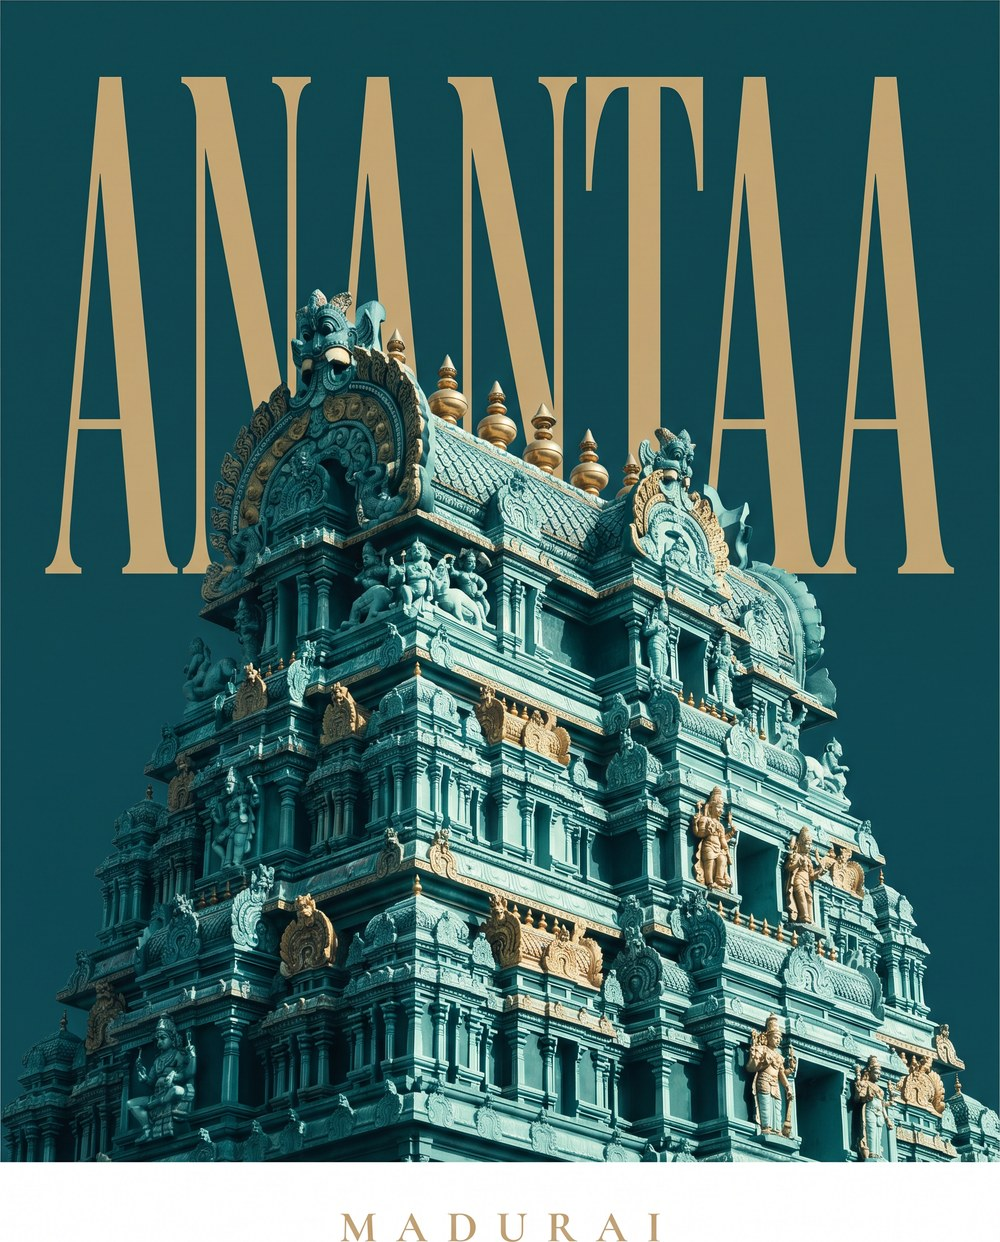
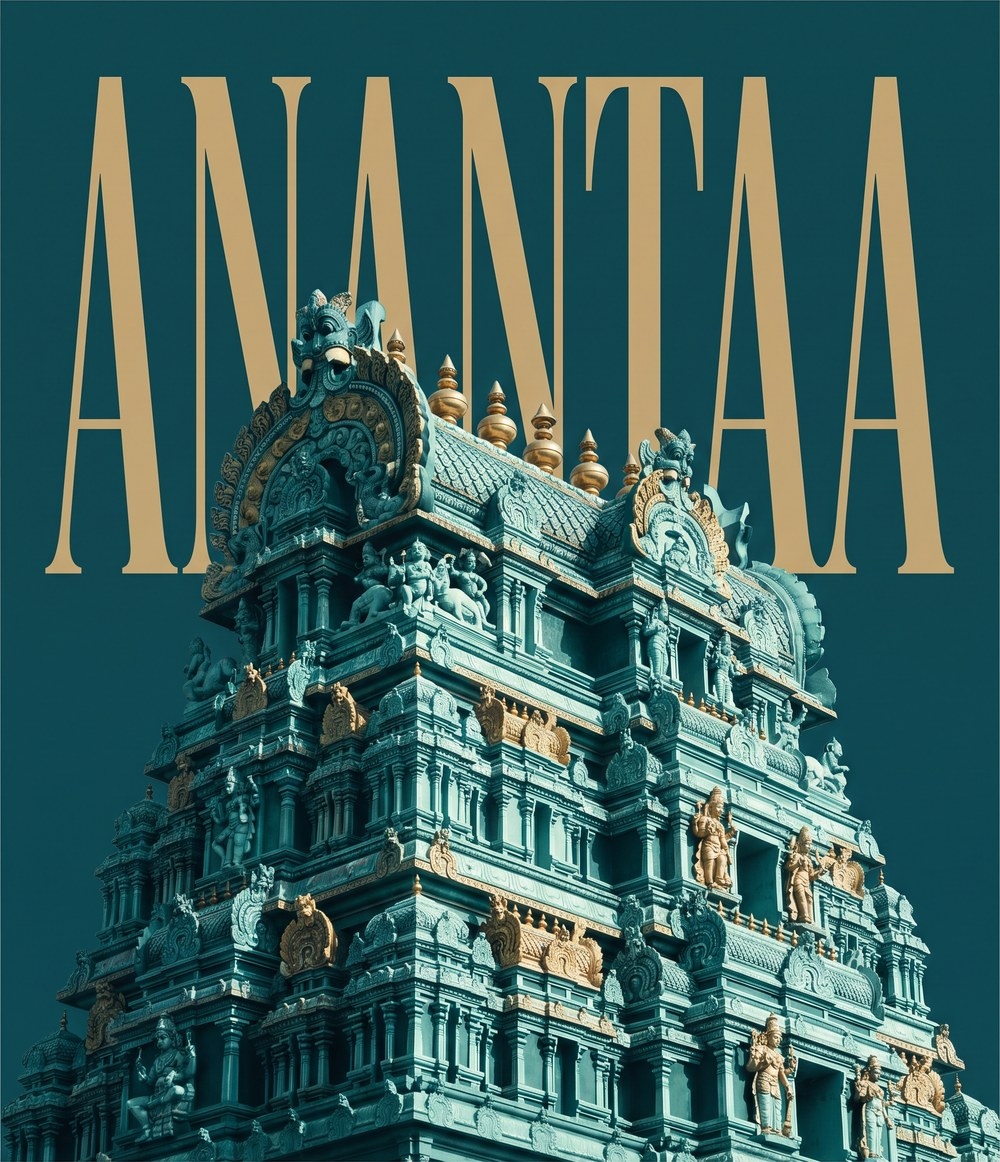
projects: the poster alone as a framed print — MADURAI and the button set into the mount; details removed

diff --git a/mrc.css b/mrc.css
@@ -1009,21 +1009,13 @@ html.modal-open { overflow: hidden; }
 .south-art:active { cursor: grabbing; }
 .south-art img { position: absolute; top: -6%; right: -6%; height: 112%; width: auto; max-width: none; -webkit-user-drag: none; pointer-events: none; }   /* a little larger than the box so the tilt never shows an edge */
 @keyframes artIn { from { opacity: 0; transform: translateX(40px) scale(1.04); } to { opacity: 1; transform: none; } }
-/* the Madurai card: a framed print of the project poster inside a white box, its button under the poster's MADURAI, details beside */
-.city-print { display: grid; grid-template-columns: minmax(0, .8fr) minmax(0, 1.2fr); gap: clamp(2rem, 4vw, 4rem); align-items: center; margin-top: 2.6rem;
-  padding: clamp(1.6rem, 3vw, 2.8rem); background: #fff; border: 1px solid var(--border); border-radius: var(--r); box-shadow: var(--shadow-md); }
-.print { margin: 0; display: flex; flex-direction: column; align-items: center; gap: 1.2rem; padding: clamp(.8rem, 1.5vw, 1.4rem) clamp(.8rem, 1.5vw, 1.4rem) 0; }
-.print > a:first-child { display: block; width: 100%; }
-.print img { display: block; width: 100%; height: auto; box-shadow: 0 18px 44px rgba(18,71,76,.18); transition: transform .5s var(--ease), box-shadow .5s; }
-.print > a:first-child:hover img { transform: translateY(-4px); box-shadow: 0 26px 54px rgba(18,71,76,.24); }
-.print-copy { color: var(--text-body); }
-.print-copy .st { font-size: .68rem; letter-spacing: .16em; text-transform: uppercase; color: var(--gold); font-weight: 600; }
-.print-copy h3 { color: var(--text); margin-top: .4rem; font-size: clamp(1.8rem, 2.6vw, 2.3rem); }
-.print-copy .meta { color: var(--text-muted, #6b7370); margin-top: .3rem; }
-.print-copy p { margin-top: 1rem; font-size: .98rem; line-height: 1.65; }
-.print-copy .lm { margin-top: 1.5rem; border-top: 1px solid var(--border); }
-.print-copy .lm li { border-bottom: 1px solid var(--border); }
-.print-copy small { display: block; margin-top: .8rem; font-size: .74rem; color: #8a8d82; }
+/* the Madurai card: the project poster as a framed print — white mount, MADURAI and the button set into the mount beneath it */
+.city-print { width: min(100%, 560px); margin: 2.6rem auto 0; padding: clamp(1.1rem, 2.2vw, 1.8rem); background: #fff; border: 1px solid var(--border); border-radius: var(--r); box-shadow: var(--shadow-md); }
+.city-print > a { display: block; }
+.city-print img { display: block; width: 100%; height: auto; transition: transform .5s var(--ease); }
+.city-print > a:hover img { transform: scale(1.01); }
+.city-print figcaption { display: flex; align-items: center; justify-content: space-between; gap: 1rem; padding: 1.1rem .4rem .2rem; }
+.city-print .place { font-family: var(--font-d); font-weight: 600; font-size: 1.05rem; letter-spacing: .34em; text-transform: uppercase; color: var(--gold); padding-left: .34em; }
 .lm { list-style: none; margin: 0; padding: 0; }
 .lm li { display: flex; justify-content: space-between; gap: 1rem; padding: .65rem 0; font-size: .92rem; }
 .lm li b { color: var(--gold); font-weight: 600; white-space: nowrap; }
@@ -1031,6 +1023,6 @@ html.modal-open { overflow: hidden; }
   .pagehead.with-art { min-height: 0; display: block; padding-top: 0; }
   .pagehead.with-art .head-copy { max-width: none; }
   .south-art { position: relative; width: 100%; height: 72vw; margin-bottom: 1.4rem; overflow: hidden; -webkit-mask-image: linear-gradient(to top, transparent 0, #000 16%); mask-image: linear-gradient(to top, transparent 0, #000 16%); }
-  .city-print { grid-template-columns: 1fr; gap: 1.6rem; padding: 1.2rem; }
-  .print { padding: 0; }
+  .city-print figcaption { flex-direction: column; align-items: stretch; text-align: center; }
+  .city-print figcaption .btn { justify-content: center; }
 }

diff --git a/locations.html b/locations.html
@@ -12,7 +12,7 @@
 <link rel="preconnect" href="https://fonts.googleapis.com">
 <link rel="preconnect" href="https://fonts.gstatic.com" crossorigin>
 <link rel="stylesheet" href="https://fonts.googleapis.com/css2?family=Instrument+Sans:wght@400;500;600;700&family=Inter:wght@400;500;600&family=Cinzel:wght@600;700&display=swap">
-<link rel="stylesheet" href="mrc.css?v=1789761451">
+<link rel="stylesheet" href="mrc.css?v=1789761627">
 </head>
 <body>
 <button class="promo" type="button" data-enquire aria-label="Book a free site visit">
@@ -62,20 +62,13 @@
       <p class="eyebrow reveal">Cities</p>
       <div class="rule reveal"></div>
       <h2 class="display reveal">Where MRC builds.</h2>
-      <div class="city-print reveal">
-        <figure class="print">
-          <a href="project-anantaa.html"><img src="anantaa-poster.jpg" alt="ANANTAA, Madurai &mdash; the Meenakshi gopuram in front of the project wordmark" width="1000" height="1242" loading="lazy"></a>
+      <figure class="city-print reveal">
+        <a href="project-anantaa.html"><img src="anantaa-poster.jpg" alt="ANANTAA, Madurai &mdash; the Meenakshi gopuram in front of the project wordmark" width="1000" height="1162" loading="lazy"></a>
+        <figcaption>
+          <span class="place">Madurai</span>
           <a class="btn btn-gold" href="project-anantaa.html">View ANANTAA &rarr;</a>
-        </figure>
-        <div class="print-copy">
-          <span class="st">Live</span>
-          <h3>Madurai</h3>
-          <div class="meta">1 project &middot; ANANTAA, Othakadai &middot; beside Yanaimalai</div>
-          <p>Fifty villa plots on the city&rsquo;s growing east side, on an approved layout, with the documents open on the table.</p>
-          <ul class="lm"><li><span>Ring Road, Othakadai</span><b>1.8 km</b></li><li><span>Mattuthavani bus stand</span><b>4.1 km</b></li><li><span>Meenakshi Amman Temple</span><b>9.6 km</b></li><li><span>Madurai Junction</span><b>10.1 km</b></li><li><span>Madurai Airport</span><b>18.2 km</b></li></ul>
-          <small>Straight-line distances from the plot centre.</small>
-        </div>
-      </div>
+        </figcaption>
+      </figure>
     </div>
   </section>
 

diff --git a/index.html b/index.html
@@ -12,7 +12,7 @@
 <link rel="preconnect" href="https://fonts.googleapis.com">
 <link rel="preconnect" href="https://fonts.gstatic.com" crossorigin>
 <link rel="stylesheet" href="https://fonts.googleapis.com/css2?family=Instrument+Sans:wght@400;500;600;700&family=Inter:wght@400;500;600&family=Cinzel:wght@600;700&display=swap">
-<link rel="stylesheet" href="mrc.css?v=1789761451">
+<link rel="stylesheet" href="mrc.css?v=1789761627">
 <link rel="stylesheet" href="https://cdnjs.cloudflare.com/ajax/libs/leaflet/1.9.4/leaflet.min.css">
 </head>
 <body>

diff --git a/project-anantaa.html b/project-anantaa.html
@@ -12,7 +12,7 @@
 <link rel="preconnect" href="https://fonts.googleapis.com">
 <link rel="preconnect" href="https://fonts.gstatic.com" crossorigin>
 <link rel="stylesheet" href="https://fonts.googleapis.com/css2?family=Instrument+Sans:wght@400;500;600;700&family=Inter:wght@400;500;600&family=Cinzel:wght@600;700&display=swap">
-<link rel="stylesheet" href="mrc.css?v=1789761451">
+<link rel="stylesheet" href="mrc.css?v=1789761627">
 <link rel="stylesheet" href="https://cdnjs.cloudflare.com/ajax/libs/leaflet/1.9.4/leaflet.min.css">
 </head>
 <body>

diff --git a/project.html b/project.html
@@ -12,7 +12,7 @@
 <link rel="preconnect" href="https://fonts.googleapis.com">
 <link rel="preconnect" href="https://fonts.gstatic.com" crossorigin>
 <link rel="stylesheet" href="https://fonts.googleapis.com/css2?family=Instrument+Sans:wght@400;500;600;700&family=Inter:wght@400;500;600&family=Cinzel:wght@600;700&display=swap">
-<link rel="stylesheet" href="mrc.css?v=1789761451">
+<link rel="stylesheet" href="mrc.css?v=1789761627">
 <link rel="stylesheet" href="https://cdnjs.cloudflare.com/ajax/libs/leaflet/1.9.4/leaflet.min.css">
 </head>
 <body>

diff --git a/projects.html b/projects.html
@@ -12,7 +12,7 @@
 <link rel="preconnect" href="https://fonts.googleapis.com">
 <link rel="preconnect" href="https://fonts.gstatic.com" crossorigin>
 <link rel="stylesheet" href="https://fonts.googleapis.com/css2?family=Instrument+Sans:wght@400;500;600;700&family=Inter:wght@400;500;600&family=Cinzel:wght@600;700&display=swap">
-<link rel="stylesheet" href="mrc.css?v=1789761451">
+<link rel="stylesheet" href="mrc.css?v=1789761627">
 <link rel="stylesheet" href="https://cdnjs.cloudflare.com/ajax/libs/leaflet/1.9.4/leaflet.min.css">
 </head>
 <body>

diff --git a/about.html b/about.html
@@ -12,7 +12,7 @@
 <link rel="preconnect" href="https://fonts.googleapis.com">
 <link rel="preconnect" href="https://fonts.gstatic.com" crossorigin>
 <link rel="stylesheet" href="https://fonts.googleapis.com/css2?family=Instrument+Sans:wght@400;500;600;700&family=Inter:wght@400;500;600&family=Cinzel:wght@600;700&display=swap">
-<link rel="stylesheet" href="mrc.css?v=1789761451">
+<link rel="stylesheet" href="mrc.css?v=1789761627">
 </head>
 <body>
 <button class="promo" type="button" data-enquire aria-label="Book a free site visit">

diff --git a/approach.html b/approach.html
@@ -12,7 +12,7 @@
 <link rel="preconnect" href="https://fonts.googleapis.com">
 <link rel="preconnect" href="https://fonts.gstatic.com" crossorigin>
 <link rel="stylesheet" href="https://fonts.googleapis.com/css2?family=Instrument+Sans:wght@400;500;600;700&family=Inter:wght@400;500;600&family=Cinzel:wght@600;700&display=swap">
-<link rel="stylesheet" href="mrc.css?v=1789761451">
+<link rel="stylesheet" href="mrc.css?v=1789761627">
 </head>
 <body>
 <button class="promo" type="button" data-enquire aria-label="Book a free site visit">

diff --git a/channel-partners.html b/channel-partners.html
@@ -12,7 +12,7 @@
 <link rel="preconnect" href="https://fonts.googleapis.com">
 <link rel="preconnect" href="https://fonts.gstatic.com" crossorigin>
 <link rel="stylesheet" href="https://fonts.googleapis.com/css2?family=Instrument+Sans:wght@400;500;600;700&family=Inter:wght@400;500;600&family=Cinzel:wght@600;700&display=swap">
-<link rel="stylesheet" href="mrc.css?v=1789761451">
+<link rel="stylesheet" href="mrc.css?v=1789761627">
 </head>
 <body>
 <button class="promo" type="button" data-enquire aria-label="Book a free site visit">

diff --git a/contact.html b/contact.html
@@ -12,7 +12,7 @@
 <link rel="preconnect" href="https://fonts.googleapis.com">
 <link rel="preconnect" href="https://fonts.gstatic.com" crossorigin>
 <link rel="stylesheet" href="https://fonts.googleapis.com/css2?family=Instrument+Sans:wght@400;500;600;700&family=Inter:wght@400;500;600&family=Cinzel:wght@600;700&display=swap">
-<link rel="stylesheet" href="mrc.css?v=1789761451">
+<link rel="stylesheet" href="mrc.css?v=1789761627">
 </head>
 <body>
 <button class="promo" type="button" data-enquire aria-label="Book a free site visit">

diff --git a/insight-dtcp-rera.html b/insight-dtcp-rera.html
@@ -12,7 +12,7 @@
 <link rel="preconnect" href="https://fonts.googleapis.com">
 <link rel="preconnect" href="https://fonts.gstatic.com" crossorigin>
 <link rel="stylesheet" href="https://fonts.googleapis.com/css2?family=Instrument+Sans:wght@400;500;600;700&family=Inter:wght@400;500;600&family=Cinzel:wght@600;700&display=swap">
-<link rel="stylesheet" href="mrc.css?v=1789761451">
+<link rel="stylesheet" href="mrc.css?v=1789761627">
 </head>
 <body>
 <button class="promo" type="button" data-enquire aria-label="Book a free site visit">

diff --git a/insight-master-plan.html b/insight-master-plan.html
@@ -12,7 +12,7 @@
 <link rel="preconnect" href="https://fonts.googleapis.com">
 <link rel="preconnect" href="https://fonts.gstatic.com" crossorigin>
 <link rel="stylesheet" href="https://fonts.googleapis.com/css2?family=Instrument+Sans:wght@400;500;600;700&family=Inter:wght@400;500;600&family=Cinzel:wght@600;700&display=swap">
-<link rel="stylesheet" href="mrc.css?v=1789761451">
+<link rel="stylesheet" href="mrc.css?v=1789761627">
 </head>
 <body>
 <button class="promo" type="button" data-enquire aria-label="Book a free site visit">
